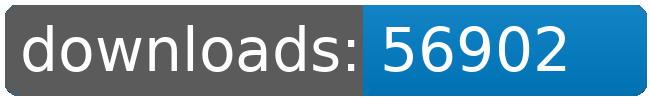
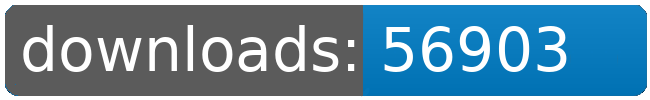
dl log written

Changed region(s): [[0.8308, 0.42, 0.8923, 0.72], [0.8, 0.27, 0.8615, 0.33]]

diff --git a/README.md b/README.md
@@ -21,8 +21,8 @@
 		<td>7667</td>
 		<td>7681</td>
 		<td>7695</td>
-		<td>7703</td>
-		<td>+ 8</td>
+		<td>7704</td>
+		<td>+ 9</td>
 	</tr>
 	<tr>
 		<td>Factory.Outlets</td>
@@ -120,8 +120,8 @@
 		<td></td>
 		<td></td>
 		<td></td>
-		<td>56902</td>
-		<td>74</td>
+		<td>56903</td>
+		<td>75</td>
 	</tr>
 </table>
 </sub></sup>
@@ -157,8 +157,8 @@
 		<td>7667</td>
 		<td>7681</td>
 		<td>7695</td>
-		<td>7703</td>
-		<td>+ 8</td>
+		<td>7704</td>
+		<td>+ 9</td>
 	</tr>
 	<tr>
 		<td>Louise.Conglomerate.Shipyards</td>
@@ -245,8 +245,8 @@
 		<td></td>
 		<td></td>
 		<td></td>
-		<td>56902</td>
-		<td>74</td>
+		<td>56903</td>
+		<td>75</td>
 	</tr>
 </table>
 </sub></sup>
